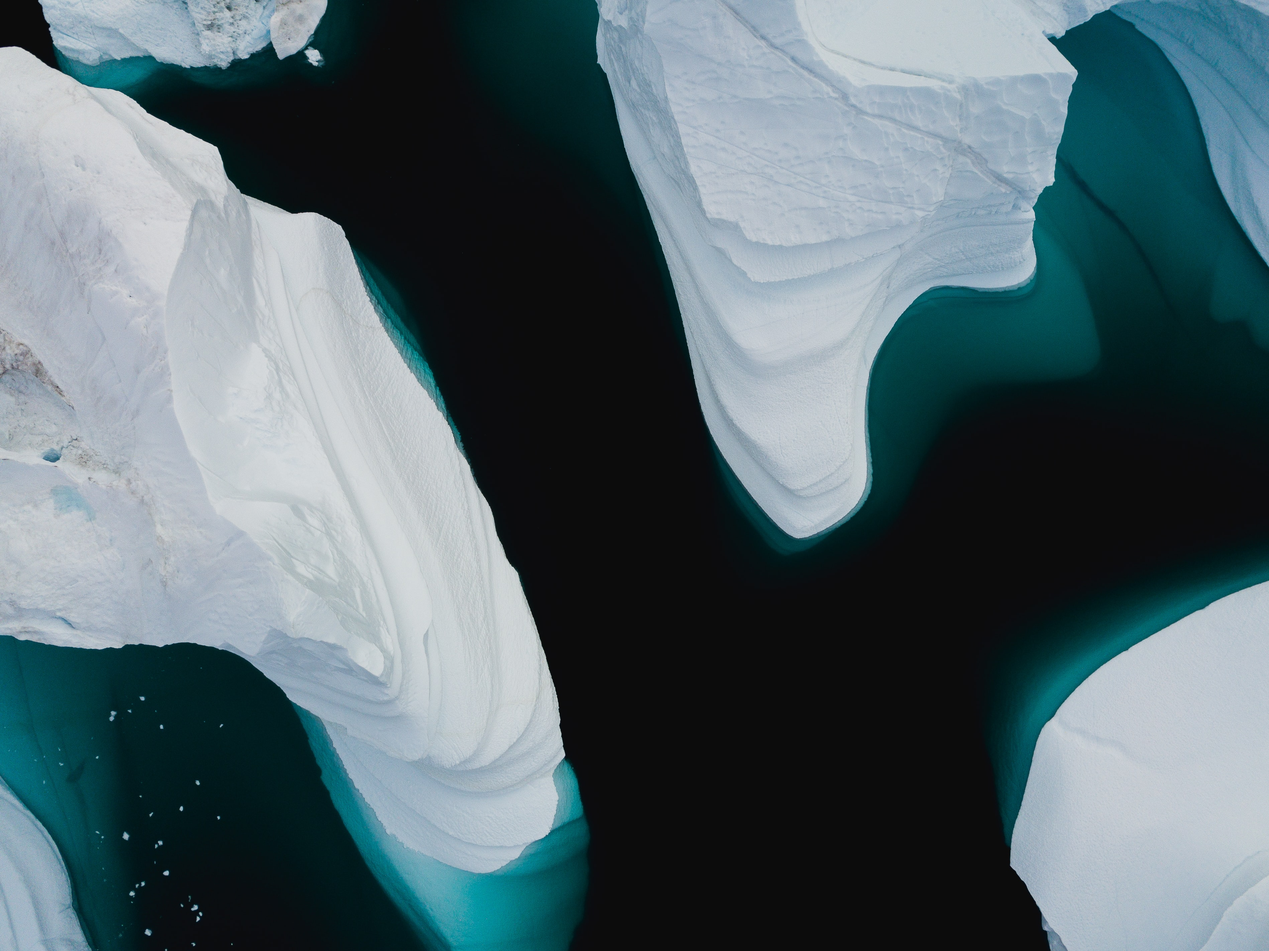
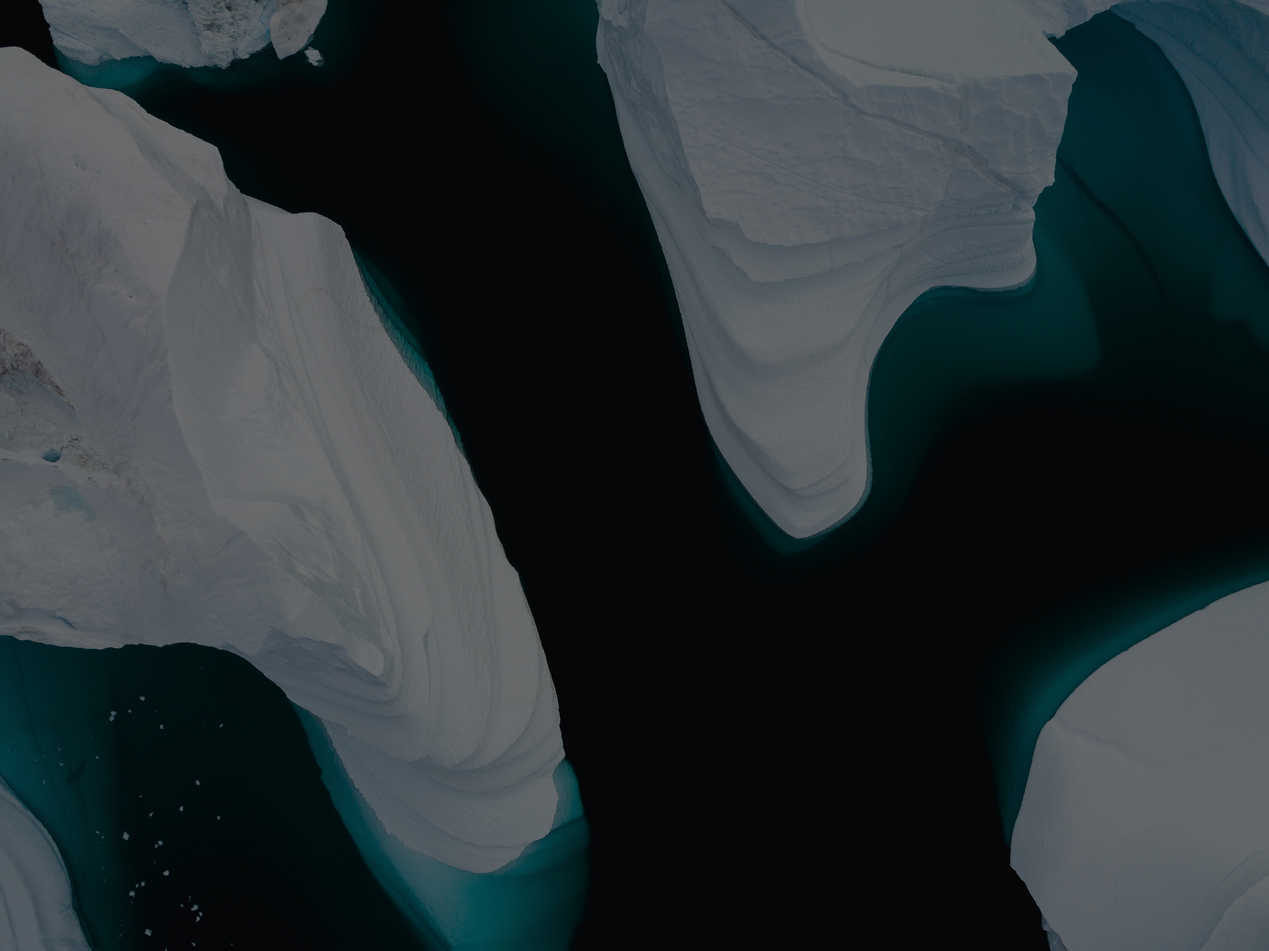
edited the image color to suit the style

diff --git a/index.html b/index.html
@@ -69,17 +69,17 @@
   <!-- Global Warming (in home) -->
 
   <div class="container-fluid tabOne" style="height: 310px">
-    <h1 style="color: black">Global Warming</h1>
+    <h1>Global Warming</h1>
   </div>
 
   <!-- Pollution (in home) -->
   <div class="container-fluid tabTwo" style="height: 310px">
-    <h1 style="color: black;">Pollution</h1>
+    <h1 >Pollution</h1>
   </div>
 
   <!-- Quiz (in home) -->
   <div class="container-fluid tabThree" style="height: 310px">
-    <h1 style="color: black;">Quiz</h1>
+    <h1 >Quiz</h1>
   </div>
 
   <!-- Global Warming (lightbox) -->
